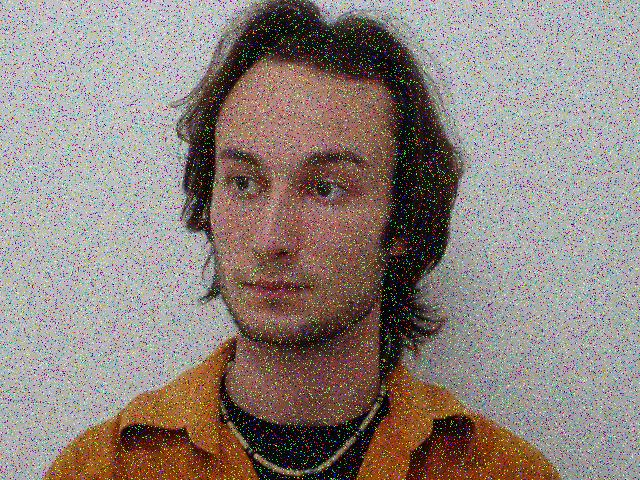
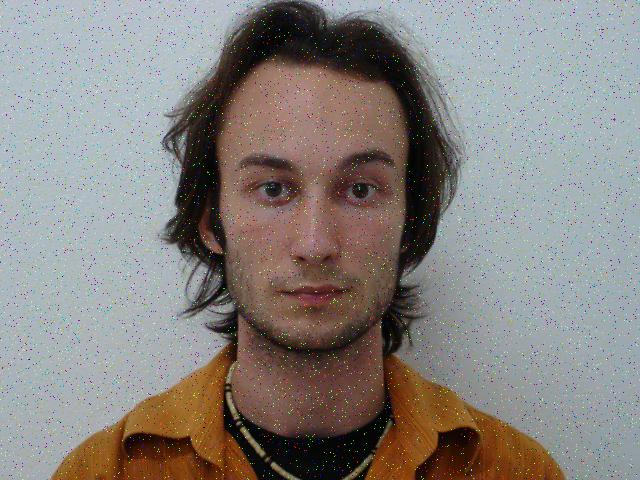
Face Recognition
Face Recognition

diff --git a/FaceRecognitionSystem/FaceRecognitionInput.m b/FaceRecognitionSystem/FaceRecognitionInput.m
@@ -58,6 +58,11 @@ function FaceRecognitionInput_OpeningFcn(hObject, eventdata, handles, varargin)
 % Choose default command line output for FaceRecognitionInput
 handles.output = hObject;
 
+filename=[]; %Variable to Set Filename of Image
+pathname=[]; %Variable to Set Pathname of Image
+setappdata(0, 'pathname', filename); %Set pathname to make accessible in other MATLAB GUI in this project
+setappdata(0, 'filename', pathname); %Set filename to make accessible in other MATLAB GUI in this project
+
 % Update handles structure
 guidata(hObject, handles);
 
@@ -99,6 +104,14 @@ function pushbutton3_Callback(hObject, eventdata, handles)
 % eventdata  reserved - to be defined in a future version of MATLAB
 % handles    structure with handles and user data (see GUIDATA)
 
+filename=getappdata(0, 'filename');
+pathname=getappdata(0, 'pathname');
+
+if isempty(filename) && isempty(pathname)
+    
+    msgbox('Please Browse Image!', 'Error', 'error');
+else
+    
 h = waitbar(0,'Please wait...');  %Creation of Waitbar (Processing bar)
 steps = 1000;                      %Steps to run on Waitbar
 for step = 1:steps
@@ -107,6 +120,9 @@ for step = 1:steps
 end
 close all;                           %Close current GUI
 FaceRecognitionStep1                 %Navigate to Face Recognition Step 1
+
+end
+
 
 % --- Executes on button press in pushbutton4.
 function pushbutton4_Callback(hObject, eventdata, handles)

diff --git a/FaceRecognitionSystem/FaceRecognitionStep1.m b/FaceRecognitionSystem/FaceRecognitionStep1.m
@@ -82,6 +82,16 @@ IFace=insertObjectAnnotation(ImgNoiseRemoval, 'rectangle', bboxFace, 'Face');  %
 axes(handles.FaceDetectionAxes)
 imshow(IFace);                          %Display Detected Face on 'FaceDetectionAxes'
 
+if isempty(bboxFace)
+    
+     h=msgbox('Provided Image may not contain Person Face or unexpected error occured. Please Try Again', 'Error', 'error');  %Declaration of 'h' variable to assign and display message box with suitable size
+     set(h, 'position', [400 300 350 60]); %Set Message box Position and Size
+     uiwait(h);
+     close all;   %Close current GUI
+     NormalUserMainMenu  %Navigate to Main Menu GUI
+end
+
+
 IFaceCropped=imcrop(ImgNoiseRemoval, [bboxFace(1) bboxFace(2) bboxFace(3) bboxFace(4)]); %Crop Face from Image
 axes(handles.CropImageAxes)
 imshow(IFaceCropped);                   %Display Crop Image on 'CropImageAxes'

diff --git a/FaceRecognitionSystem/Untitled18.m b/FaceRecognitionSystem/Untitled18.m
@@ -1,3 +1,10 @@
 %finaloutputresult=num2str(result);  %Convert Neural Network result to String format
 
 conn=database('FaceDBConnection', 'root', ''); 
+
+curs = exec(conn, ['SELECT * FROM 	`facerecognitiondb`.systemuser ']);
+
+curs = fetch(curs);
+close(curs);
+
+SystemUserInfoTable = curs.Data;

diff --git a/FaceRecognitionSystem/Untitled17.m b/FaceRecognitionSystem/Untitled17.m
@@ -1,4 +1,4 @@
-I = imread('E:\FaceRecognitionProject\FaceRecognitionSystem\Training Set\2\2-04.jpg');
-J = imnoise(I,'salt & pepper',0.1);
+I = imread('E:\FaceRecognitionProject\FaceRecognitionSystem\Training Set\2\2-11.jpg');
+J = imnoise(I,'salt & pepper',0.02);
 
 imwrite(J, 'J.jpg');
